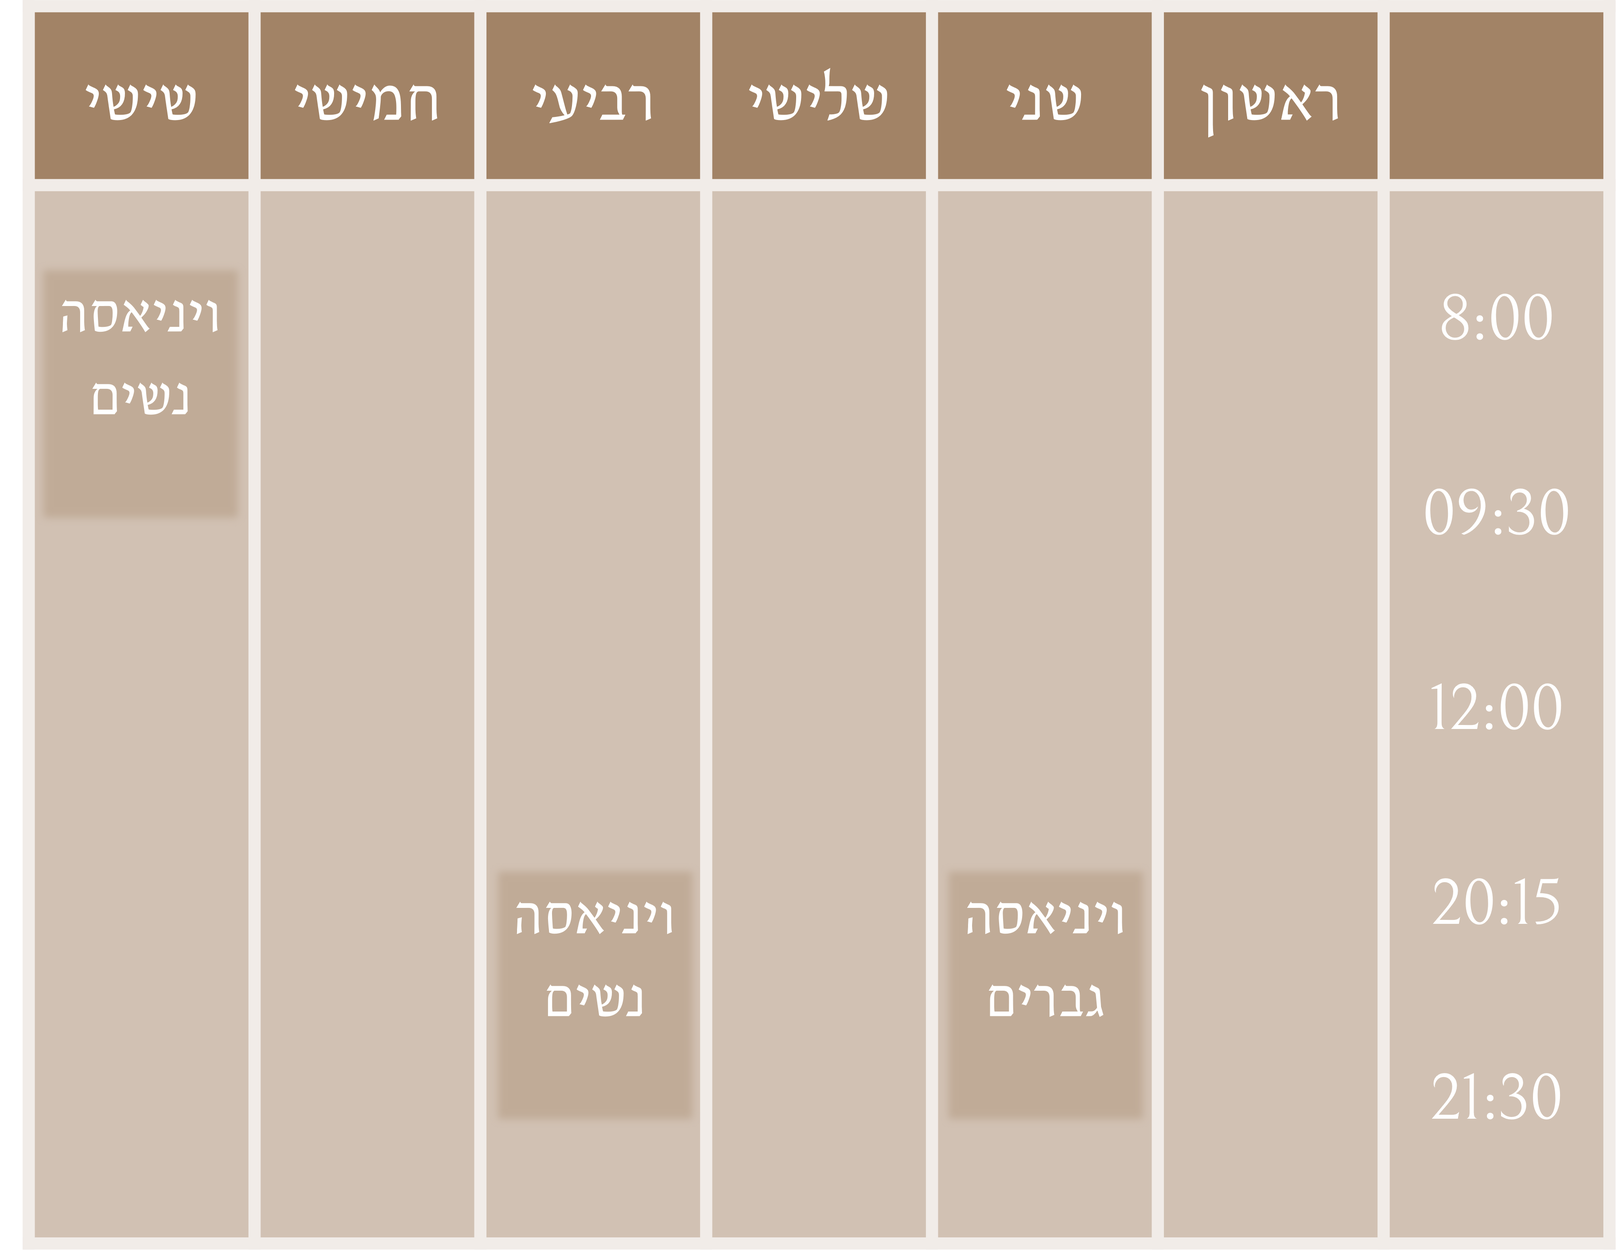
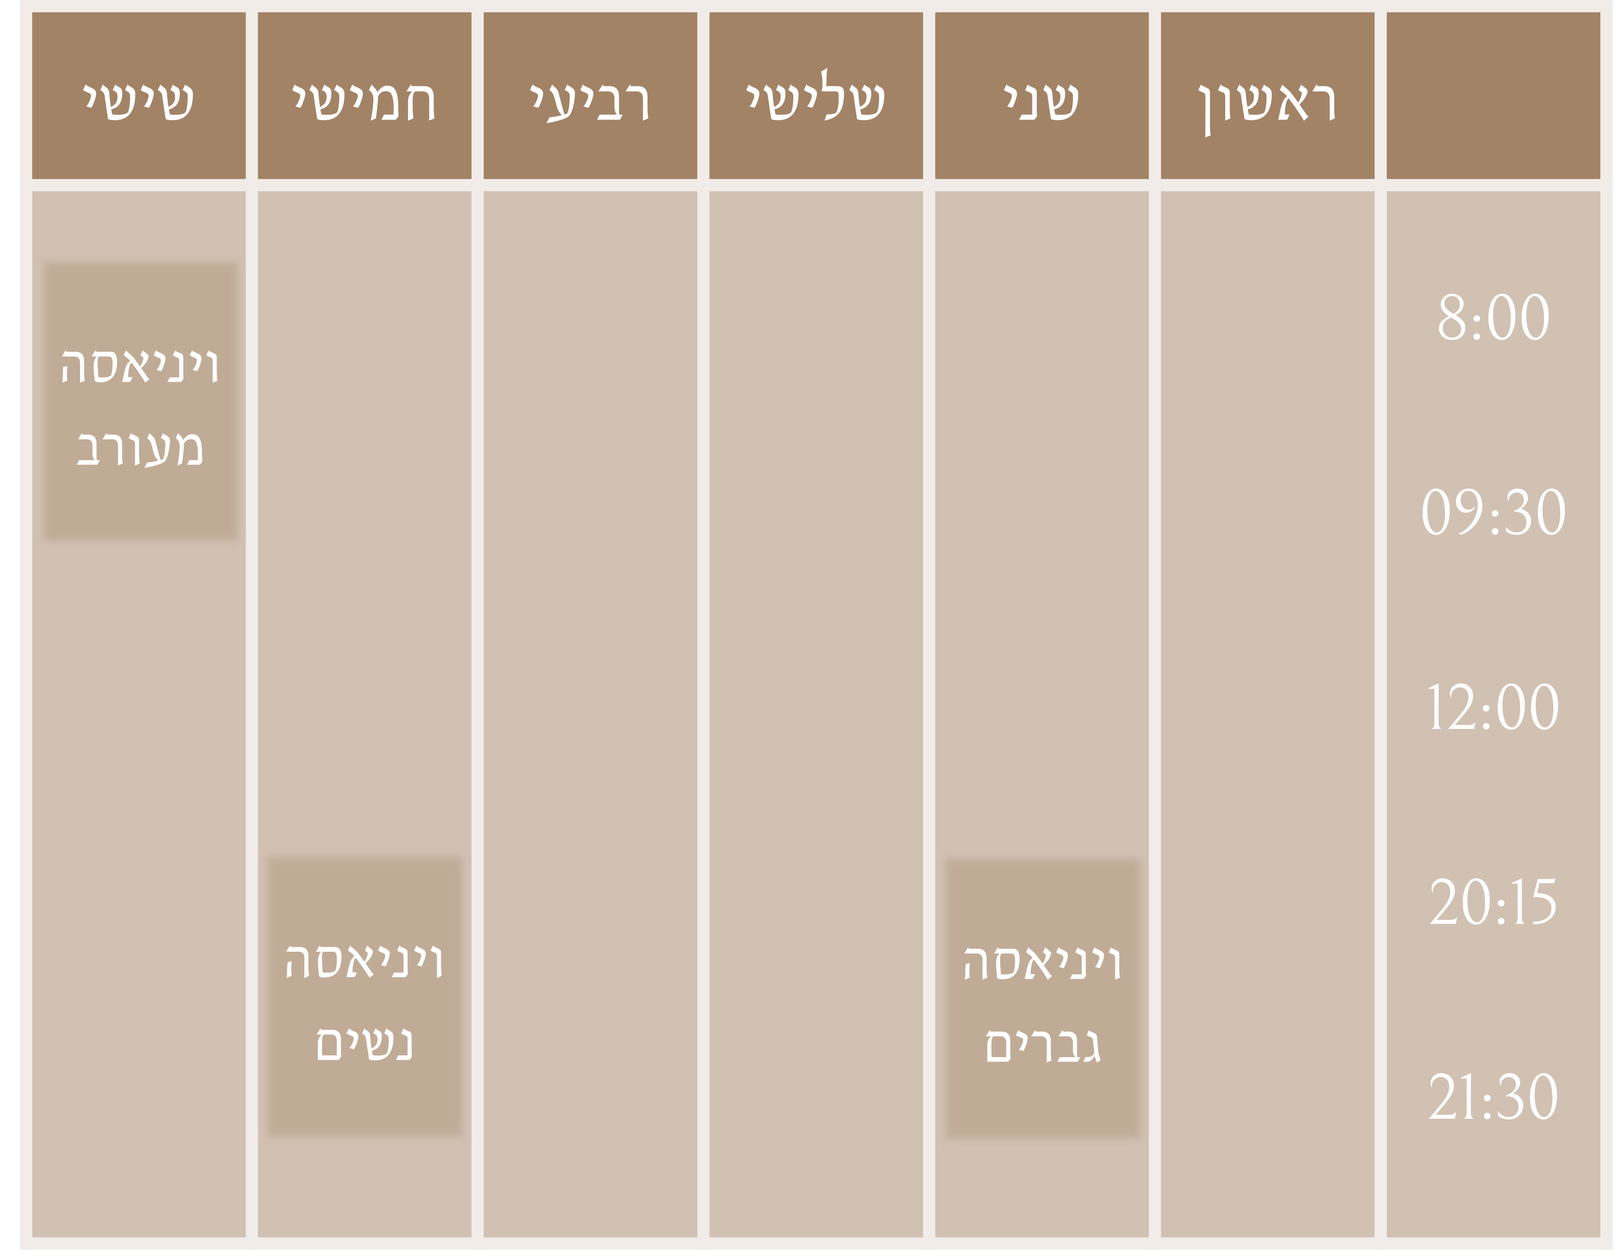
Add files via upload

diff --git a/index.html b/index.html
@@ -1,6 +1,20 @@
 <!DOCTYPE html>
 <html lang="en" class="js" dir="rtl">
   <head>
+    <!-- Google tag (gtag.js) -->
+    <script
+      async
+      src="https://www.googletagmanager.com/gtag/js?id=G-5BDN3GLL7Q"
+    ></script>
+    <script>
+      window.dataLayer = window.dataLayer || [];
+      function gtag() {
+        dataLayer.push(arguments);
+      }
+      gtag("js", new Date());
+
+      gtag("config", "G-5BDN3GLL7Q");
+    </script>
     <!--- basic page needs
     ================================================== -->
     <meta charset="utf-8" />
@@ -82,9 +96,9 @@
             <li class="current">
               <a class="menu-button" href="#intro">בית</a>
             </li>
-            <li><a class="menu-button" href="#week">לוז השבוע</a></li>
+            <li><a class="menu-button" href="#plans">הסטודיו</a></li>
+            <li><a class="menu-button" href="#week">מערכת שעות</a></li>
             <li><a class="menu-button" href="#about">על עצמי</a></li>
-            <li><a class="menu-button" href="#plans">תוכניות</a></li>
           </ul>
           <!-- s-header__nav-links -->
 
@@ -163,7 +177,7 @@
         <!-- s-intro__content -->
 
         <div class="s-intro__scroll-down">
-          <a href="#week" class="smoothscroll">
+          <a href="#plans" class="smoothscroll">
             <span class="scroll-text u-screen-reader-text">Scroll Down</span>
             <div class="scroll-icon">
               <svg
@@ -186,11 +200,145 @@
       </section>
       <!-- end s-intro -->
 
+      <!-- # menu block
+        ================================================== -->
+      <section class="s-menublock">
+        <div id="plans" class="row s-menublock__top">
+          <div class="column xl-8 lg-12">
+            <div class="s-menublock__content-header section-header">
+              <h2 class="text-display-title with-line">הסטודיו</h2>
+              <p class="attention-getter">
+                הסטודיו שלנו הוא בית לתרגול יוגה. היוגה נוגעת במכלול שלם של כלל
+                מערכות הגוף. בשיעורי היוגה אנחנו מתחברים לנשימה. בחיים העמוסים
+                והלחוצים של כולנו אין לנו זמן להתבונן בגוף הנושם שלנו, בדופק,
+                בפעימות הלב. תרגול היוגה מאפשר זמני עצירה בהם קיימת התבוננות
+                פנימה, והקשבה לנשימה. הנשימה הופכת אט אט לעוגן, דרכה אפשר למצוא
+                בתוכנו הרפיה ושלווה הן בתרגול היוגה גם כשהוא מאתגר והן מחוץ
+                למזרן בחיי היום יום סביב האתגרים השונים שמגיעים אלינו דרך קבע.
+                תרגול היוגה מאפשר לגוף להתחזק, בגמישות ובכוח הפיזי, התרגול הוא
+                דינאמי ונוגע במגוון רחב של אברי הגוף ומערכות הגוף השונות מהמערכת
+                הפראסימפטטית ועד לשרירי הליבה. היוגה ביכולותיה הפלאיות מתאימה גם
+                לפציעות פיזיות ונפשיות והיא בעיקר מאפשר זמן של סגירת מסך לרעשים
+                שבחוץ וחיבור פנימה. כולנו שונים וכל אחד מחפש ביוגה את עצמו בדרך
+                שונה, היוגה מאפשרת לכל אדם, בכל רמת גמישות, בכל מקום בעולם לפרוס
+                מזרן ולהתחיל לתרגל. בסטודיו שלנו לכל אחד ולכל אחת יש מקום
+                והתרגילים מותאמים לרמות השונות הסטודיו פתוח לכל אדם שרוצה להתחיל
+                לתרגל יוגה. בסטודיו מתקיימים שיעורים בקבוצות, שיעורים אחד על אחד
+                וסדנאות.
+              </p>
+            </div>
+            <!-- end s-menublock__content-header -->
+          </div>
+        </div>
+        <!-- end s-menublock__top -->
+
+        <div class="row">
+          <div class="column xl-12 menublock__slider-nav">
+            <div class="menublock-buttons">
+              <div class="menublock-btn-prev">
+                <svg
+                  clip-rule="evenodd"
+                  fill-rule="evenodd"
+                  stroke-linejoin="round"
+                  stroke-miterlimit="2"
+                  viewBox="0 0 24 24"
+                  xmlns="http://www.w3.org/2000/svg"
+                >
+                  <path
+                    d="m14.523 18.787s4.501-4.505 6.255-6.26c.146-.146.219-.338.219-.53s-.073-.383-.219-.53c-1.753-1.754-6.255-6.258-6.255-6.258-.144-.145-.334-.217-.524-.217-.193 0-.385.074-.532.221-.293.292-.295.766-.004 1.056l4.978 4.978h-14.692c-.414 0-.75.336-.75.75s.336.75.75.75h14.692l-4.979 4.979c-.289.289-.286.762.006 1.054.148.148.341.222.533.222.19 0 .378-.072.522-.215z"
+                    fill-rule="nonzero"
+                  ></path>
+                </svg>
+              </div>
+              <div class="menublock-btn-next">
+                <svg
+                  clip-rule="evenodd"
+                  fill-rule="evenodd"
+                  stroke-linejoin="round"
+                  stroke-miterlimit="2"
+                  viewBox="0 0 24 24"
+                  xmlns="http://www.w3.org/2000/svg"
+                >
+                  <path
+                    d="m9.474 5.209s-4.501 4.505-6.254 6.259c-.147.146-.22.338-.22.53s.073.384.22.53c1.752 1.754 6.252 6.257 6.252 6.257.145.145.336.217.527.217.191-.001.383-.074.53-.221.293-.293.294-.766.004-1.057l-4.976-4.976h14.692c.414 0 .75-.336.75-.75s-.336-.75-.75-.75h-14.692l4.978-4.979c.289-.289.287-.761-.006-1.054-.147-.147-.339-.221-.53-.221-.191-.001-.38.071-.525.215z"
+                    fill-rule="nonzero"
+                  ></path>
+                </svg>
+              </div>
+            </div>
+          </div>
+          <!-- end s-menublock__slider-nav -->
+        </div>
+
+        <div class="row s-menublock__slider-wrap">
+          <div class="column xl-12">
+            <div class="swiper-container s-menublock__slider">
+              <div class="swiper-wrapper">
+                <div class="s-menublock__slide swiper-slide">
+                  <div class="menublock-item">
+                    <div class="menublock-item__thumb">
+                      <img src="images/menu/steak.jpg" alt="" />
+                    </div>
+                    <div class="menublock-item__text">
+                      <h5>שיעורי יוגה</h5>
+                      <p>תקציר תוכנית</p>
+                    </div>
+                    <!-- <div class="menublock-item__price-wrap">
+                        <div class="menublock-item__price"><span>₪</span>18</div>
+                      </div> -->
+                  </div>
+                  <!-- end menublock-item -->
+                </div>
+                <!-- end s-menublock__slide -->
+
+                <div class="s-menublock__slide swiper-slide">
+                  <div class="menublock-item">
+                    <div class="menublock-item__thumb">
+                      <img src="images/menu/pasta.jpg" alt="" />
+                    </div>
+                    <div class="menublock-item__text">
+                      <h5>שיעורים פרטיים</h5>
+                      <p>תקציר תוכנית</p>
+                    </div>
+                    <!-- <div class="menublock-item__price-wrap">
+                        <div class="menublock-item__price"><span>₪</span>15</div>
+                      </div> -->
+                  </div>
+                  <!-- end menublock-item -->
+                </div>
+                <!-- end s-menublock__slide -->
+
+                <div class="s-menublock__slide swiper-slide">
+                  <div class="menublock-item">
+                    <div class="menublock-item__thumb">
+                      <img src="images/menu/toast.jpg" alt="" />
+                    </div>
+                    <div class="menublock-item__text">
+                      <h5>סדנאות</h5>
+                      <p>תקציר תוכנית</p>
+                    </div>
+                    <!-- <div class="menublock-item__price-wrap">
+                        <div class="menublock-item__price"><span>₪</span>10</div>
+                      </div> -->
+                  </div>
+                  <!-- end menublock-item -->
+                </div>
+                <!-- end s-menublock__slide -->
+              </div>
+              <!-- end swiper-wrapper -->
+            </div>
+            <!-- end s-menublock__slider -->
+          </div>
+        </div>
+        <!-- s-menublock__slider-wrap -->
+      </section>
+      <!-- end s-menublock -->
+
       <!-- # week -->
       <section id="week" class="s-week">
         <div class="s-week__content">
           <div>
-            <h3 class="s-week__title text-center">לוז השבוע</h3>
+            <h3 class="s-week__title text-center">מערכת שעות</h3>
             <img class="week-img" src="images/week.png" alt="" />
           </div>
           <!-- end column -->
@@ -208,8 +356,10 @@
               <h2 class="text-display-title with-line">על עצמי</h2>
               <div class="s-about__content-header-inner">
                 <p class="text-desc">
-                  על עצמי על עצמי על עצמי על עצמי על עצמי על עצמי על עצמי על
-                  עצמי על עצמי על עצמי על עצמי על עצמי על עצמי על עצמי
+                  שמי ירדן, בת 33, אמא ובת הזוג של איתן, חיה את דרך היוגה והיום
+                  גם מלמדת, אני בוגרת קורס מורים ליוגה במכון וינגייט ומודה
+                  למורים שלי שאפשרו לי למידה, חקירה והעמקה בדרך היוגה. החיים
+                  בזרימתם הפגישו אותי עם היוגה והיוגה אפשרה לי מפגש עם עצמי.
                 </p>
 
                 <div class="s-about__content-media">
@@ -230,17 +380,20 @@
 
             <div class="s-about__content-main">
               <p class="attention-getter">
-                פסקה 1 פסקה 1 פסקה 1 פסקה 1 פסקה 1 פסקה 1 פסקה 1 פסקה 1 פסקה 1
-                פסקה 1 פסקה 1 פסקה 1 פסקה 1 פסקה 1 פסקה 1פסקה 1 פסקה 1 פסקה 1
-                פסקה 1
+                יוגה עבורי זה זמן שמאפשר לי לחזור, לנשימה שלי, לגוף הפיזי, ולנפש
+                שזקוקה לתשומת לב. דרך היוגה הבנתי שכשאני מאפשרת לעצמי לעצור רגע
+                ולהקשיב לקולות שנמצאים בי אני בעצם הופכת קשובה, מכילה, נעימה
+                יותר כלפי עצמי, וכלפי הסביבה.
               </p>
               <p class="attention-getter">
-                פסקה 2 פסקה 2 פסקה 2 פסקה 2 פסקה 2 פסקה 2 פסקה 2 פסקה 2 פסקה 2
-                פסקה 2 פסקה 2 פסקה 2 פסקה 2 פסקה 2 פסקה 2
+                אני מאמינה בחיבור של תנועה ונשימה על המזרן ובחיים שמחוצה לו,
+                בתרגול הפיזי נשלב נשימה, תנועה וחיבור. נוכל להיות גמישים יותר
+                תודעתית ותנועתית כאחד ולהיות טובים יותר ראשית כלפי עצמנו ומשם
+                כלפי הסובבים אותנו.
               </p>
               <p class="attention-getter" style="margin-bottom: 10rem">
-                פסקה 3 פסקה 3 פסקה 3 פסקה 3 פסקה 3 פסקה 3 פסקה 3 פסקה 3 פסקה 3
-                פסקה 3 פסקה 3 פסקה 3 פסקה 3 פסקה 3 פסקה 3 פסקה 3 פסקה 3
+                דרך היוגה אני חווה את דרך החיים, ויש לי זכות גדולה להזמין לדרך
+                היוגה אנשים נוספים, אז אשמח להיפגש ולחוות יחד דרך.
               </p>
 
               <!-- <div class="s-about__content-btn">
@@ -358,125 +511,6 @@
       </section>
       <!-- end s-testimonials -->
 
-      <!-- # menu block
-        ================================================== -->
-      <section class="s-menublock">
-        <div id="plans" class="row s-menublock__top">
-          <div class="column xl-8 lg-12">
-            <div class="s-menublock__content-header section-header">
-              <h2 class="text-display-title with-line">הסטודיו</h2>
-              <p class="attention-getter">
-                תקציר תקציר תקציר תקציר תקציר תקציר תקציר תקציר תקציר תקציר
-                תקציר תקציר תקציר תקציר
-              </p>
-            </div>
-            <!-- end s-menublock__content-header -->
-          </div>
-        </div>
-        <!-- end s-menublock__top -->
-
-        <div class="row">
-          <div class="column xl-12 menublock__slider-nav">
-            <div class="menublock-buttons">
-              <div class="menublock-btn-prev">
-                <svg
-                  clip-rule="evenodd"
-                  fill-rule="evenodd"
-                  stroke-linejoin="round"
-                  stroke-miterlimit="2"
-                  viewBox="0 0 24 24"
-                  xmlns="http://www.w3.org/2000/svg"
-                >
-                  <path
-                    d="m14.523 18.787s4.501-4.505 6.255-6.26c.146-.146.219-.338.219-.53s-.073-.383-.219-.53c-1.753-1.754-6.255-6.258-6.255-6.258-.144-.145-.334-.217-.524-.217-.193 0-.385.074-.532.221-.293.292-.295.766-.004 1.056l4.978 4.978h-14.692c-.414 0-.75.336-.75.75s.336.75.75.75h14.692l-4.979 4.979c-.289.289-.286.762.006 1.054.148.148.341.222.533.222.19 0 .378-.072.522-.215z"
-                    fill-rule="nonzero"
-                  ></path>
-                </svg>
-              </div>
-              <div class="menublock-btn-next">
-                <svg
-                  clip-rule="evenodd"
-                  fill-rule="evenodd"
-                  stroke-linejoin="round"
-                  stroke-miterlimit="2"
-                  viewBox="0 0 24 24"
-                  xmlns="http://www.w3.org/2000/svg"
-                >
-                  <path
-                    d="m9.474 5.209s-4.501 4.505-6.254 6.259c-.147.146-.22.338-.22.53s.073.384.22.53c1.752 1.754 6.252 6.257 6.252 6.257.145.145.336.217.527.217.191-.001.383-.074.53-.221.293-.293.294-.766.004-1.057l-4.976-4.976h14.692c.414 0 .75-.336.75-.75s-.336-.75-.75-.75h-14.692l4.978-4.979c.289-.289.287-.761-.006-1.054-.147-.147-.339-.221-.53-.221-.191-.001-.38.071-.525.215z"
-                    fill-rule="nonzero"
-                  ></path>
-                </svg>
-              </div>
-            </div>
-          </div>
-          <!-- end s-menublock__slider-nav -->
-        </div>
-
-        <div class="row s-menublock__slider-wrap">
-          <div class="column xl-12">
-            <div class="swiper-container s-menublock__slider">
-              <div class="swiper-wrapper">
-                <div class="s-menublock__slide swiper-slide">
-                  <div class="menublock-item">
-                    <div class="menublock-item__thumb">
-                      <img src="images/menu/steak.jpg" alt="" />
-                    </div>
-                    <div class="menublock-item__text">
-                      <h5>שיעורי יוגה</h5>
-                      <p>תקציר תוכנית</p>
-                    </div>
-                    <!-- <div class="menublock-item__price-wrap">
-                      <div class="menublock-item__price"><span>₪</span>18</div>
-                    </div> -->
-                  </div>
-                  <!-- end menublock-item -->
-                </div>
-                <!-- end s-menublock__slide -->
-
-                <div class="s-menublock__slide swiper-slide">
-                  <div class="menublock-item">
-                    <div class="menublock-item__thumb">
-                      <img src="images/menu/pasta.jpg" alt="" />
-                    </div>
-                    <div class="menublock-item__text">
-                      <h5>שיעורים פרטיים</h5>
-                      <p>תקציר תוכנית</p>
-                    </div>
-                    <!-- <div class="menublock-item__price-wrap">
-                      <div class="menublock-item__price"><span>₪</span>15</div>
-                    </div> -->
-                  </div>
-                  <!-- end menublock-item -->
-                </div>
-                <!-- end s-menublock__slide -->
-
-                <div class="s-menublock__slide swiper-slide">
-                  <div class="menublock-item">
-                    <div class="menublock-item__thumb">
-                      <img src="images/menu/toast.jpg" alt="" />
-                    </div>
-                    <div class="menublock-item__text">
-                      <h5>סדנאות</h5>
-                      <p>תקציר תוכנית</p>
-                    </div>
-                    <!-- <div class="menublock-item__price-wrap">
-                      <div class="menublock-item__price"><span>₪</span>10</div>
-                    </div> -->
-                  </div>
-                  <!-- end menublock-item -->
-                </div>
-                <!-- end s-menublock__slide -->
-              </div>
-              <!-- end swiper-wrapper -->
-            </div>
-            <!-- end s-menublock__slider -->
-          </div>
-        </div>
-        <!-- s-menublock__slider-wrap -->
-      </section>
-      <!-- end s-menublock -->
-
       <!-- # footer 
         ================================================== -->
       <footer id="footer" class="s-footer">
@@ -489,10 +523,8 @@
             </div> -->
 
             <p>
-              מילים מילים מילים מילים מילים מילים מילים מילים מילים מילים מילים
-              מילים מילים מילים מילים מילים מילים מילים מילים מילים מילים מילים
-              מילים מילים מילים מילים מילים מילים מילים מילים מילים מילים מילים
-              מילים מילים מילים מילים מילים מילים מילים מילים מילים מילים
+              מוזמנים לבוא לתרגל, ליצור קשר, לשאול שאלות, אל תפסיקו לחייך,
+              מחכה לכם, ירדן.
             </p>
           </div>
           <!-- end s-footer__about -->
